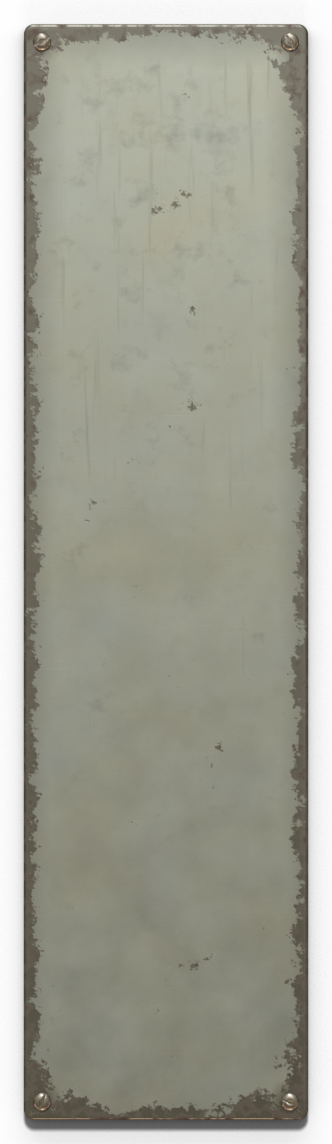
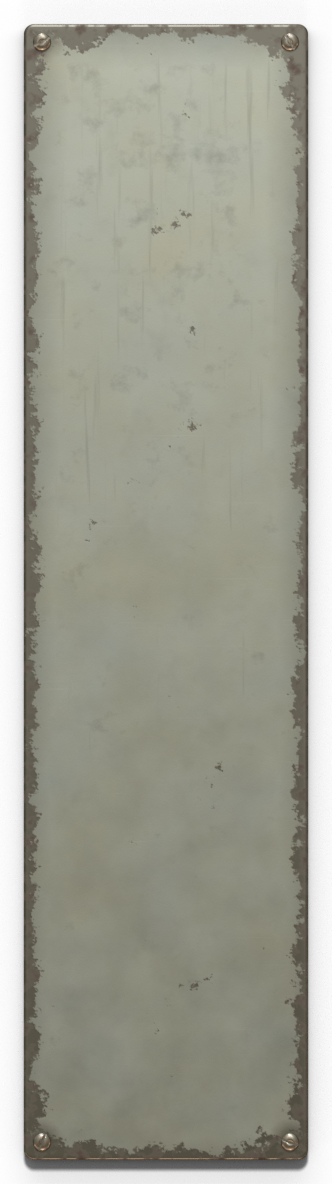
Polish Patina's nameplate and give its small knobs' labels room
The Age dial prints only NEW and RUINED, larger and level at the scale's two
ends (AS SET is gone). Small knobs' names sit a clear 6 px below their ticks and
are larger (14.5 px, values 13.5 px), the main knobs' names a little lower too;
the face grows to 1160 x 680 to fit, its panel and plates rendered again at the
new size with the same wear.

The nameplate is polished steel: smoother and brighter, a soft light seen only
in its reflections laying a sheen across its left, its middle clean and the
grime, stains and pits gathered toward its edges and screws.

UI only; no real-time path changes.

diff --git a/scripts/render/patina/plate_render.py b/scripts/render/patina/plate_render.py
@@ -3,11 +3,11 @@
 the top, a broad soft source high above for the sheen, the room in the reflections),
 its shadow caught on a floor of what it sits on and otherwise transparent.
 
-  panel      the whole face, 1160 x 660 page px: slate-green hammertone enamel on
+  panel      the whole face, 1160 x 680 page px: slate-green hammertone enamel on
              steel, the hammered dimples catching the light, a rounded edge.
-  module     a stage's plate, 142 x 548: grey-green satin enamel, a fine orange
+  module     a stage's plate, 142 x 568: grey-green satin enamel, a fine orange
              peel, worn a little at its edges, four slotted screws 9 px in.
-  master     the master plate, 216 x 548, the same enamel and screws.
+  master     the master plate, 216 x 568, the same enamel and screws.
   nameplate  the nameplate, 300 x 56: a flat brushed stainless plate (square
              corners, a hairline edge) after decades on a rack (grime in its edges and round its screws, smudges, fine
              scratches, faint tea-staining), a slotted screw in each corner.
@@ -40,11 +40,11 @@ MARGIN = 12 / 50                 # 12 page px
 HAMMER = "#38433E"               # the face's hammertone
 ENAMEL = "#A3ABA3"               # the plates' grey-green enamel
 ALUMINIUM = "#C8CBCA"
-STAINLESS = "#A8ACAD"
+STAINLESS = "#C3C6C7"
 BLACK = "#141615"
 
 SIZES = {                        # page px
-    "panel": (1160, 660), "module": (142, 548), "master": (216, 548),
+    "panel": (1160, 680), "module": (142, 568), "master": (216, 568),
     "nameplate": (300, 56), "window": (126, 96), "display": (300, 44),
 }
 pw, ph = SIZES[KIND]
@@ -151,8 +151,8 @@ def brushed(colour=ALUMINIUM):
 
 
 def aged_stainless(w2, h2, screws_at):
-    """Brushed stainless steel after decades on a rack: the grain along X, a little
-    duller in smudged patches; grime worked into its edges and round its screws,
+    """Polished, brushed stainless steel after decades on a rack: the grain along
+    X, smooth enough to mirror the room, a little duller in smudged patches; grime worked into its edges and round its screws,
     broken up so it reads as dirt and not a vignette; fine scratches across the
     grain; faint tea-staining (the warm rust film steel takes in damp air) and a
     few pits."""
@@ -207,11 +207,14 @@ def aged_stainless(w2, h2, screws_at):
         ring = C.ramp(nt, C.math_node(nt, "MULTIPLY_ADD", breakup, 0.05, r), 0.08, 0.26, 1.0, 0.0)
         grime = C.math_node(nt, "MAXIMUM", grime, ring)
     # Patches of grime reaching in from the edges, and broad smudges where hands have been.
+    # Handled steel stays bright in its middle: the dirt gathers toward the edges.
+    toward_edge = C.ramp(nt, edge, 0.0, 0.7, 1.0, 0.15)
     blotch = C.ramp(nt, C.noise(nt, co, 3.2, detail=8.0, rough=0.7), 0.5, 0.78, 0.0, 0.8)
-    grime = C.math_node(nt, "MAXIMUM", grime, blotch)
+    grime = C.math_node(nt, "MAXIMUM", grime, C.math_node(nt, "MULTIPLY", blotch, toward_edge))
     smudge = C.ramp(nt, C.noise(nt, co, 1.6, detail=3.0), 0.5, 0.75)
     # Tea staining and pits.
     stain = C.ramp(nt, C.noise(nt, co, 2.4, detail=7.0, rough=0.7), 0.48, 0.8, 0.0, 0.7)
+    stain = C.math_node(nt, "MULTIPLY", stain, C.ramp(nt, edge, 0.0, 0.7, 1.0, 0.3))
     vor = nt.nodes.new("ShaderNodeTexVoronoi")
     vor.inputs["Scale"].default_value = 60.0
     nt.links.new(co, vor.inputs["Vector"])
@@ -239,9 +242,9 @@ def aged_stainless(w2, h2, screws_at):
     nt.links.new(shade.outputs["Color"], tint.inputs["B"])
     nt.links.new(tint.outputs["Result"], p.inputs["Base Color"])
     # Grime and stain dull it; smudges more so; scratches catch a little brighter.
-    rough = C.ramp(nt, streak, 0.3, 0.7, 0.3, 0.42)
+    rough = C.ramp(nt, streak, 0.3, 0.7, 0.1, 0.19)
     rough = C.math_node(nt, "MULTIPLY_ADD", grime, 0.35, rough)
-    rough = C.math_node(nt, "MULTIPLY_ADD", smudge, 0.12, rough)
+    rough = C.math_node(nt, "MULTIPLY_ADD", smudge, 0.08, rough)
     rough = C.math_node(nt, "MULTIPLY_ADD", stain, 0.4, rough)
     rough = C.math_node(nt, "MULTIPLY_ADD", scratches, -0.1, rough, clamp=True)
     nt.links.new(rough, p.inputs["Roughness"])
@@ -574,6 +577,14 @@ C.key_sun(scene, energy=2.3, angle=float(os.environ.get("PLATE_SUN_ANGLE", "12")
 C.area(scene, "TopFall", 30.0, 900, (0, 6 + 4, 7), (0, 0, 0), shape="RECTANGLE", size_y=3.0, glossy=False)
 C.area(scene, "Sheen", 34.0, 1800 * float(os.environ.get("PLATE_SHEEN", "1.0")), (0, 9, 30), (0, 0, 0),
        shape="RECTANGLE", size_y=14.0, diffuse=False, shadow=False)
-C.room(scene)
+if KIND == "nameplate":
+    # Polished steel mirrors what is over it: a broad soft panel of light above,
+    # off to the left and seen only in reflections, lays a bright sheen across the
+    # plate's left that fades into the darker room toward its right.
+    C.area(scene, "Reflection", 9.0, float(os.environ.get("NAMEPLATE_SHEEN", "150")), (-4.5, 1.0, 7.0), (-4.5, 1.0, 0.0),
+           shape="RECTANGLE", size_y=7.0, diffuse=False, shadow=False)
+    C.room(scene, strength=0.55)
+else:
+    C.room(scene)
 C.render(scene, OUT, round(fw * PX), round(fh * PX), samples=1024, transparent=KIND != "panel",
          denoise=os.environ.get("PLATE_DENOISE", "0") == "1")

diff --git a/src/ui/strip/PatinaCard.cpp b/src/ui/strip/PatinaCard.cpp
@@ -97,7 +97,7 @@ void focusRing(juce::Graphics& g, juce::Component& c, juce::Rectangle<float> r, 
 
 // ----- where things are on the face (pixels at 100%) ----------------------------------------
 
-constexpr float faceWidth = 1160.0f, faceHeight = 660.0f;
+constexpr float faceWidth = 1160.0f, faceHeight = 680.0f;
 constexpr float shadowMargin = 12.0f; // round each plate's and bezel's image
 
 // Along the top, on the hammertone.
@@ -115,7 +115,7 @@ const juce::Point<float> lampCentre{1124.0f, 42.0f};
 
 // The six stage modules and the master plate.
 constexpr float moduleLeft = 20.0f, moduleTop = 92.0f, moduleWidth = 142.0f, moduleGap = 8.0f;
-constexpr float moduleHeight = 548.0f;
+constexpr float moduleHeight = 568.0f;
 const juce::Rectangle<float> masterArea{924.0f, moduleTop, 216.0f, moduleHeight};
 
 float moduleX(int stage) noexcept
@@ -138,7 +138,7 @@ constexpr int ledCount = 8;
 constexpr float selectorRow = 300.0f, selectorCaptionRow = 337.0f, selectorSkirt = 30.0f;
 constexpr float selectorStep = 52.0f; // degrees between a selector's positions
 constexpr float mainRow = 394.0f, mainSkirt = 52.0f;
-constexpr std::array<float, 2> smallRows{496.0f, 582.0f};
+constexpr std::array<float, 2> smallRows{500.0f, 590.0f};
 constexpr float smallSkirt = 30.0f, smallSpread = 34.0f;
 
 // The master plate.
@@ -428,15 +428,16 @@ private:
             case Control::Kind::main:
                 return 16.0f;
             default:
-                return 13.0f;
+                return 14.5f;
         }
     }
     // Where a control's name sits: under its scale.
     static juce::Rectangle<float> nameArea(const Control& c, float width)
     {
+        // A clear gap from the scale's ticks to the name's capitals.
         const float below = c.kind == Control::Kind::age    ? 52.0f
-                            : c.kind == Control::Kind::main ? 34.0f
-                                                            : 24.0f;
+                            : c.kind == Control::Kind::main ? 38.0f
+                                                            : 30.0f;
         return {c.centre.x - width * 0.5f, c.centre.y + c.skirt * 0.5f + below - 22.0f, width, 22.0f};
     }
     static float nameWidth(const Control& c) noexcept
@@ -635,16 +636,21 @@ private:
                 g, c.centre, r + 3.0f, r + (c.kind == Control::Kind::age ? 9.0f : 6.0f), 11, 1.3f);
         if (c.kind == Control::Kind::age && !isCompact())
         {
-            g.setFont(legendFont(theme_, 12.0f, 700, 0.14f));
+            // The dial's two ends: untouched, and as far as it goes.
+            g.setColour(hw.patinaInk);
+            g.setFont(legendFont(theme_, 16.0f, 700, 0.14f));
+            // On one line, level with the scale's last ticks, each reading outward
+            // from just past its end of the scale.
+            const auto end = polar(c.centre, r + 9.0f, 135.0f);
+            const float y = end.y + 6.0f, gap = end.x - c.centre.x - 6.0f;
             print(g,
                   "NEW",
-                  juce::Rectangle<float>(50.0f, 16.0f).withCentre(polar(c.centre, r + 26.0f, -135.0f)));
-            print(g,
-                  "AS SET",
-                  juce::Rectangle<float>(60.0f, 16.0f).withCentre(polar(c.centre, r + 20.0f, 0.0f)));
+                  juce::Rectangle<float>(c.centre.x - gap - 80.0f, y, 80.0f, 20.0f),
+                  juce::Justification::centredRight);
             print(g,
                   "RUINED",
-                  juce::Rectangle<float>(60.0f, 16.0f).withCentre(polar(c.centre, r + 30.0f, 135.0f)));
+                  juce::Rectangle<float>(c.centre.x + gap, y, 80.0f, 20.0f),
+                  juce::Justification::centredLeft);
         }
         knobBodyIfArt(g, c);
         g.setColour(hw.patinaInk);
@@ -693,7 +699,7 @@ private:
                 continue;
             const float size = c.kind == Control::Kind::age    ? 15.0f
                                : c.kind == Control::Kind::main ? 13.0f
-                                                               : 12.5f;
+                                                               : 13.5f;
             g.setColour(hw.patinaInkSoft);
             g.setFont(legendFont(theme_, size, 600, 0.04f));
             hardware::drawCrispText(
@@ -768,7 +774,7 @@ public:
 
         // Wear has no type: its dropouts and skew take the selector's place, their
         // names just above the selectors' captions.
-        const float wearRow = selectorCaptionRow - smallSkirt * 0.5f - 21.0f;
+        const float wearRow = selectorCaptionRow - smallSkirt * 0.5f - 19.0f;
         control(pa::wearDropouts,
                 {moduleCentre(pa::wear) - smallSpread, wearRow},
                 smallSkirt,

diff --git a/docs/decisions.md b/docs/decisions.md
@@ -125,7 +125,7 @@ For how the pieces fit together see [architecture.md](architecture.md).
 | 2026-10-23 | Patina's card is a hardware face (a worn rack unit) in its own `hardware` token group, with generated textures loaded from `assets/patina` | Ageing sound is Patina's whole character, and a worn face says so at a glance, as the instruments' faces do. The panel stays fully worn at every Age: a face that changed with a knob drew the eye away from the readouts. The group keeps the rule that colours are tokens without bending the house palette; the images load at run time like the splash photograph and fall back to flat tokens, so the tests and a missing file never break the card |
 | 2026-10-24 | UI performance is tested in three layers: counted work budgets in every `ctest`, timed paint budgets in Release builds only, frame benchmarks against a per-machine baseline | Timings on shared CI machines vary from run to run, so a timed gate there either flakes or is too loose to catch anything; counting what an interaction repaints and the words it sets is exact on any machine and catches the regressions that matter (a hover repainting a whole face). Paint times and real frames still need checking, so they run where they mean something: a Release build on the developer's machine, compared with that machine's own baseline |
 | 2026-10-24 | A rendered face sets only the words in the area being repainted | A face prints 100 to 150 words, each measured by its glyphs' outlines; a hover or a live window repainting the whole set cost a full repaint (5 ms or more) for a few pixels, which dropped the frame rate under the mouse. Culling by the clip keeps a small repaint under a millisecond and needs nothing from the faces |
-| 2026-10-24 | Patina's face is rebuilt from rendered parts, six stage modules with every control showing (replacing generated textures and a tabbed control row) | Beside Corona and the tape echo, a face of app controls on a photo texture read as a skin, and the row that swapped to the selected stage hid most of the unit and left gaps. Rendered plates, knobs and buttons give it the same material weight as the others; showing every control turns the six stages into a chain you can read at a glance, at the cost of a taller face (1160 x 660). Wear, with no type, puts its Dropouts and Skew where the selector would be, so the modules keep one set of rows |
+| 2026-10-24 | Patina's face is rebuilt from rendered parts, six stage modules with every control showing (replacing generated textures and a tabbed control row) | Beside Corona and the tape echo, a face of app controls on a photo texture read as a skin, and the row that swapped to the selected stage hid most of the unit and left gaps. Rendered plates, knobs and buttons give it the same material weight as the others; showing every control turns the six stages into a chain you can read at a glance, at the cost of a taller face (1160 x 680, so every small knob's name and value have room under its scale). Wear, with no type, puts its Dropouts and Skew where the selector would be, so the modules keep one set of rows |
 | 2026-10-23 | The tape echo's card is a hardware face built from 3D renders (Blender, `scripts/render/tapeecho`), drawn at 1160 x 600 and scaled to fit its body | A tape echo's character is the machine, and drawn or generated parts never shared a light or a perspective; renders of every part under one top light and one room do. A face that keeps its proportions reads as one object at any size; laying it out again for each height would be a second design. The card narrows with the dock, and the plugin window shows it 1:1 |
 | 2026-10-23 | On the tape echo's face, what turns is its own layer, and a lamp's light is a layer laid over the base | A rendered knob or roller turned whole would turn its highlights and shadow with it. Light rendered alone, as colour with alpha, makes a neon's brightness its opacity with its spill included, without blend modes JUCE lacks |
 | 2026-10-23 | The tape echo's SYNC is a lever, and while it is on REPEAT RATE steps through the note values | A console has no menu; one knob for the motor whichever way it is set keeps the rate in one place, and the lever remembers the last note value |

diff --git a/docs/design/screens/plugins.md b/docs/design/screens/plugins.md
@@ -140,7 +140,7 @@ delay `Gorse`, glue compressor `Thrift`, Patina `Kelp`, exciter `Machair`, Bloom
   latency. Twelve factory presets (Gentle Age, the defaults, first). Its editor is
   a hardware face built from rendered parts (design-system.md "Rendered parts";
   `assets/patina`, rendered by `scripts/render/patina`), a 1960s broadcast colour
-  processor drawn at 1160 x 660 and scaled to fit the card's body, the card
+  processor drawn at 1160 x 680 and scaled to fit the card's body, the card
   narrowing with it (the tape echo's and Corona's rules; compact below 65%). Every
   control shows at once; nothing on the face is a tab. Text is Barlow legends
   (`legendFont`) set crisply by the face; the inks are `patinaInk` on the enamel
@@ -149,9 +149,10 @@ delay `Gorse`, glue compressor `Thrift`, Patina `Kelp`, exciter `Machair`, Bloom
   - **The panel**: slate-green hammertone enamel (`panel.jpg`, flat
     `patinaPanel` without it) under everything.
   - **The top row**, on the hammertone. At the left the **nameplate**
-    (`nameplate.png`, 300 x 56: a flat brushed stainless plate, square corners and
-    a hairline edge, after decades on a rack: grime, stains and pits, dirt round a
-    screw in each corner; `patinaNameplate`),
+    (`nameplate.png`, 300 x 56: a flat, polished brushed stainless plate, square
+    corners and a hairline edge, catching a sheen across its left; after decades
+    on a rack its middle is still bright and the grime, stains and pits gather
+    toward its edges and round a screw in each corner; `patinaNameplate`),
     etched: the Northlight mark in a 34 px square (a 1.6 px rule), PATINA at 31 px
     bold with 0.34 tracking and under it NORTHLIGHT · STUDIO EQUIPMENT at 11 px
     with 0.26 tracking, left aligned beside the square. Etched means the lettering
@@ -173,7 +174,7 @@ delay `Gorse`, glue compressor `Thrift`, Patina `Kelp`, exciter `Machair`, Bloom
     change of a value makes it Custom. Tooltips: "Previous preset", "Next
     preset", "Presets". Right of them the **pilot lamp** (Corona's red jewel, lit
     while the insert is on).
-  - **Six stage modules** in signal order, 142 x 548 each, 8 px apart, on grey
+  - **Six stage modules** in signal order, 142 x 568 each, 8 px apart, on grey
     enamel plates (`module-1.png` to `module-6.png`, four screws; `patinaPlate`),
     each worn its own way. Every painted part of the face is worn as decades-old
     rack gear: paint chipped back to steel along the edges and corners, flakes
@@ -204,10 +205,11 @@ delay `Gorse`, glue compressor `Thrift`, Patina `Kelp`, exciter `Machair`, Bloom
     - its **main knob** (52 px) over eleven printed ticks, its name under it
       (16 px bold) and its value under that (13 px, `patinaInkSoft`).
     - its **small knobs** (30 px), two to a row in up to two rows (a row's last
-      knob alone is centred), each with its name (13 px bold) and value
-      (12.5 px).
-  - **The master plate** (216 x 548, `master.png`): **Age**, a 96 px knob over
-    eleven ticks with NEW, AS SET and RUINED printed at its ends and top, its
+      knob alone is centred), each with its name (14.5 px bold) and value
+      (13.5 px), the name's capitals a clear 6 px below the scale's ticks.
+  - **The master plate** (216 x 568, `master.png`): **Age**, a 96 px knob over
+    eleven ticks with NEW and RUINED printed at its two ends (16 px bold,
+    `patinaInk`), its
     name at 22 px and value at 15 px; **Pace** under it ("0.16 Hz"); then the
     output section under an OUTPUT caption between two rules: Tone, Low cut,
     High cut in a row, Width and Output centred under them.

diff --git a/assets/patina/README.md b/assets/patina/README.md
@@ -14,16 +14,16 @@ face, rings worn round its screws, grime in its edges and settling toward its fo
 streaks running down, scuffs; the plates' light enamel yellowed, the dark hammertone
 dusty (`apply_wear` in `plate_render.py`).
 
-They are kept at twice the face's drawn size (1160 x 660), so they are sharp at 200%.
+They are kept at twice the face's drawn size (1160 x 680), so they are sharp at 200%.
 The plates and bezels carry a 12 px margin (24 px in the file) on every side for
 their shadow, so each is placed 12 px up and left of its rectangle on the face.
 
 | File | Size | What it is |
 |---|---|---|
-| `panel.jpg` | 2320 x 1320 | Slate-green hammertone enamel: the panel everything sits on (drawn over the whole face), worn at its edges, dusty |
-| `module-1.png` … `module-6.png` | 332 x 1144 | The stages' plates (142 x 548): grey-green satin enamel gone yellow, four rusty slotted screws, each worn its own way (a different wear seed) so no chip repeats across the face |
-| `master.png` | 480 x 1144 | The master plate (216 x 548), the same enamel and wear |
-| `nameplate.png` | 648 x 160 | The nameplate (300 x 56): a flat brushed stainless plate (square corners, a hairline edge) after decades on a rack (grime in its edges and round its four screws, smudges, scratches, faint tea-staining), its green cast from the room's light mostly taken out in packaging |
+| `panel.jpg` | 2320 x 1360 | Slate-green hammertone enamel: the panel everything sits on (drawn over the whole face), worn at its edges, dusty |
+| `module-1.png` … `module-6.png` | 332 x 1184 | The stages' plates (142 x 568): grey-green satin enamel gone yellow, four rusty slotted screws, each worn its own way (a different wear seed) so no chip repeats across the face |
+| `master.png` | 480 x 1184 | The master plate (216 x 568), the same enamel and wear |
+| `nameplate.png` | 648 x 160 | The nameplate (300 x 56): a flat, polished brushed stainless plate (square corners, a hairline edge) after decades on a rack, a soft light above it laying a sheen across its left; its middle bright, the dirt toward its edges (grime in its edges and round its four screws, smudges, scratches, faint tea-staining), its green cast from the room's light mostly taken out in packaging |
 | `window.png` | 300 x 240 | A stage window's bezel (126 x 96): black crinkle paint worn back at its edges and round its opening, the opening's corners 3 px |
 | `display.png` | 648 x 136 | The preset display's bezel (300 x 44), the same |
 | `knob-body.png`, `knob-pointer.png` | 640 x 960, 640 x 640 | The knob's body and shadow (a flared bakelite skirt, a fluted body, a spun aluminium cap); its red pointer, which turns |

diff --git a/scripts/render/patina/README.md b/scripts/render/patina/README.md
@@ -18,7 +18,7 @@ lettering anywhere (all text is drawn live by the app).
 
 | Script | Renders |
 |---|---|
-| `plate_render.py -- <panel\|module\|master\|nameplate\|window\|display> <out>` | A flat part and its shadow, head-on from 80 units, worn (`apply_wear`): `PATINA_WEAR` scales the wear (1 as shipped), `PATINA_SEED` varies it (the six module plates are seeds 1 to 6, `module-1.png` to `module-6.png`), `HAMMER_SCALE` sets the hammertone's dimples |
+| `plate_render.py -- <panel\|module\|master\|nameplate\|window\|display> <out>` | A flat part and its shadow, head-on from 80 units, worn (`apply_wear`): `PATINA_WEAR` scales the wear (1 as shipped), `PATINA_SEED` varies it (the six module plates are seeds 1 to 6, `module-1.png` to `module-6.png`), `HAMMER_SCALE` sets the hammertone's dimples, `NAMEPLATE_SHEEN` the light the polished nameplate mirrors |
 | `knob_render.py -- <body\|pointer> <out> [size]` | The knob's body and shadow; the pointer alone, the layer that turns (rendered at 1280) |
 | `button_render.py -- <off\|on> <out> [width]` | A stage's push-button, dark and lit (`BUTTON_GLOW` sets the lit lens's emission; rendered at 480) |
 
